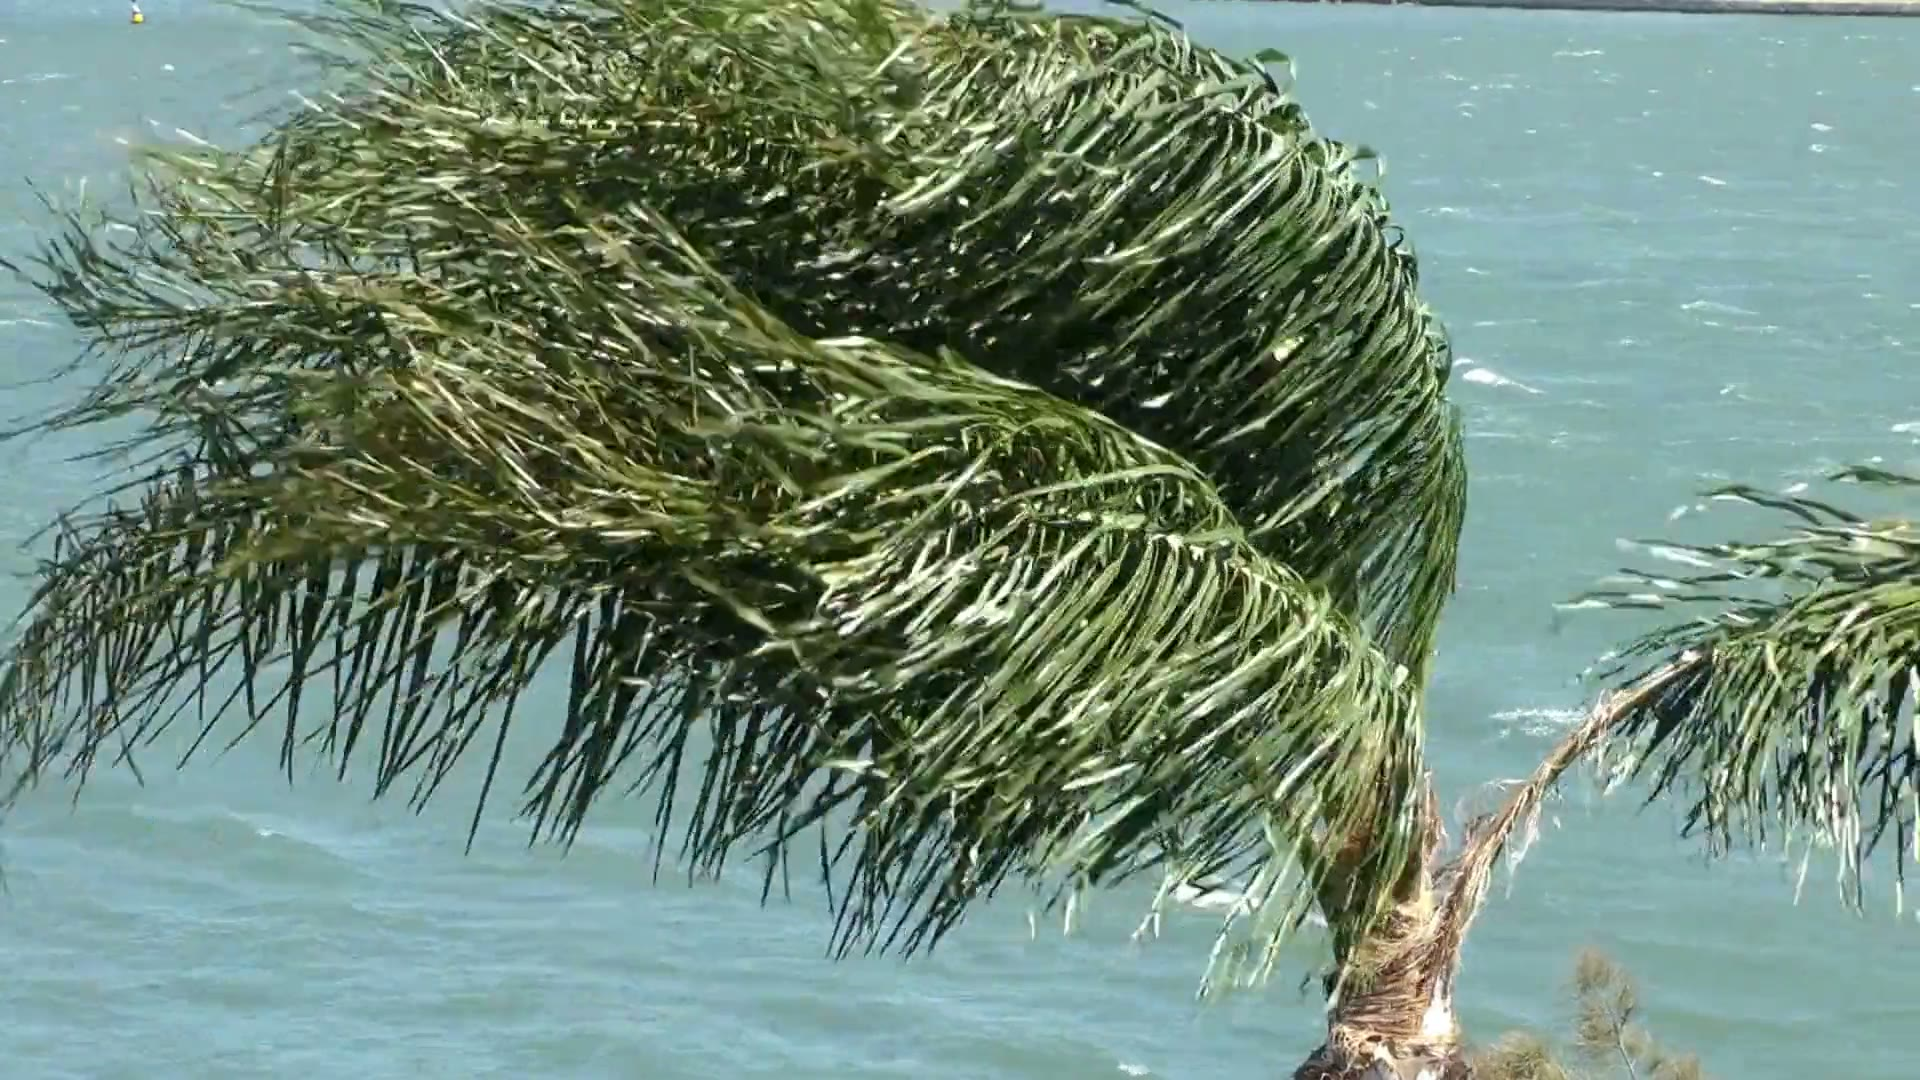
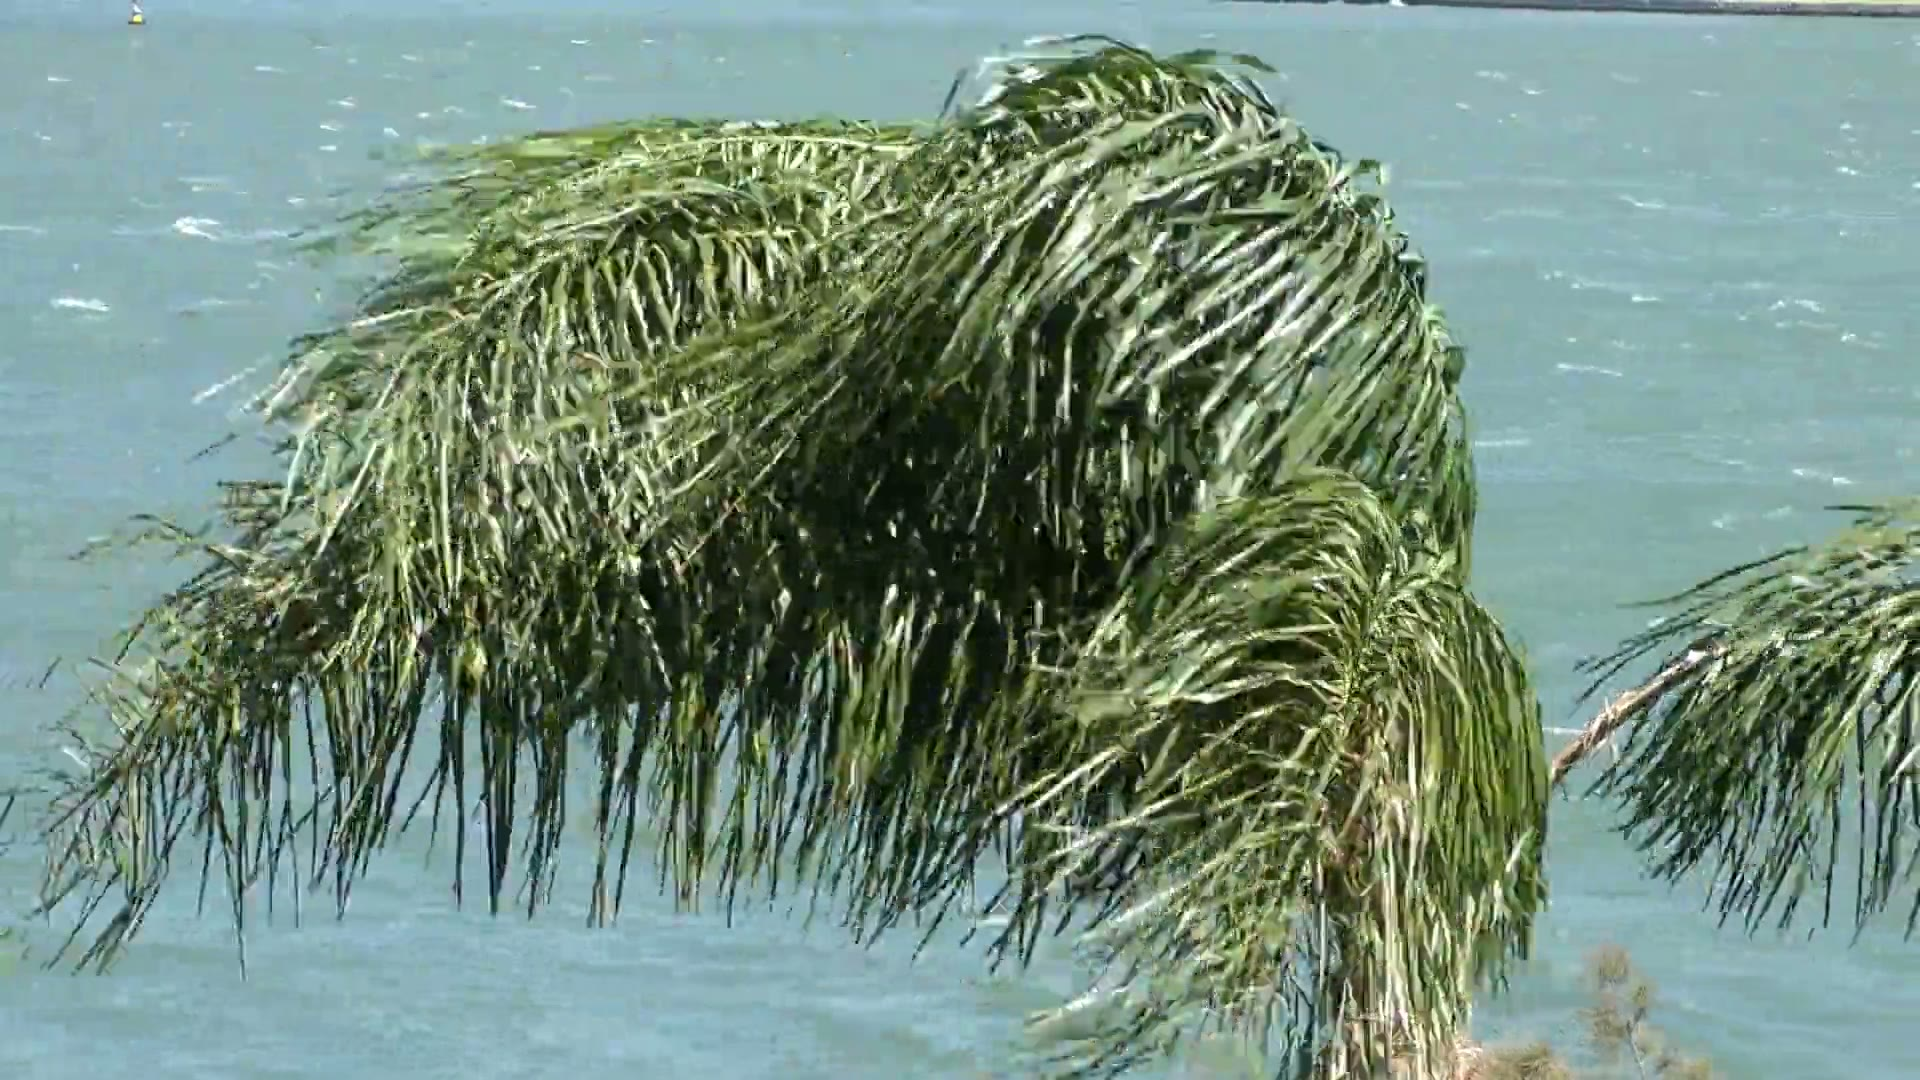
feat(state-pages): R2 hero videos on California, Texas, ASCE-7 pages
Completes the state-page hero video rollout (12/12). Per Greg, reuse hurricane
clips rather than people/office footage: california->hurricane-06,
texas->hurricane-07, asce-7 (generic)->hurricane-08. Same pattern as the rest.

diff --git a/texas-wind-load-calculator/index.html b/texas-wind-load-calculator/index.html
@@ -18,14 +18,14 @@
     <meta property="og:description" content="Texas wind load calculator per ASCE 7-22 — the latest standard. Coastal vs inland split, TWIA 14-county support, Galveston to El Paso wind speeds. Free per-ZIP lookup.">
     <meta property="og:type" content="website">
     <meta property="og:url" content="https://windloadcalc.com/texas-wind-load-calculator/">
-    <meta property="og:image" content="https://windloadcalc.com/images/video-posters/index-homepage.jpg">
+    <meta property="og:image" content="https://windloadcalc.com/images/video-posters/hurricane-07.jpg">
     <meta property="og:site_name" content="WindLoadCalc">
 
     <!-- Twitter Card -->
     <meta name="twitter:card" content="summary_large_image">
     <meta name="twitter:title" content="Texas Wind Load Calculator — ASCE 7-22 + TWIA Coastal">
     <meta name="twitter:description" content="Texas wind load calculator per ASCE 7-22 — the latest standard. Coastal vs inland split, TWIA 14-county support, Galveston to El Paso wind speeds. Free per-ZIP lookup.">
-    <meta name="twitter:image" content="https://windloadcalc.com/images/video-posters/index-homepage.jpg">
+    <meta name="twitter:image" content="https://windloadcalc.com/images/video-posters/hurricane-07.jpg">
 
     <link rel="canonical" href="https://windloadcalc.com/texas-wind-load-calculator/">
 
@@ -157,6 +157,8 @@ nav.scrolled .logo-image{height:64px;filter:none}
 
 /* Hero (aurora-only, no video) */
 .hero-stage{position:relative;overflow:hidden;isolation:isolate}
+.hero-video{position:absolute;inset:0;width:100%;height:100%;object-fit:cover;z-index:0}
+@media(prefers-reduced-motion:reduce){.hero-video{display:none}}
 .hero-veil{position:absolute;inset:0;z-index:1;pointer-events:none;
   background:radial-gradient(ellipse 70% 60% at 50% 26%, rgba(0,24,255,.18), transparent 62%),
     linear-gradient(180deg, rgba(7,10,24,.66) 0%, rgba(7,10,24,.42) 32%, rgba(7,10,24,.72) 74%, var(--bg) 100%)}
@@ -372,7 +374,7 @@ section{position:relative;z-index:1;padding:62px 0}
       },
       "primaryImageOfPage": {
         "@type": "ImageObject",
-        "url": "https://windloadcalc.com/images/video-posters/index-homepage.jpg"
+        "url": "https://windloadcalc.com/images/video-posters/hurricane-07.jpg"
       },
       "inLanguage": "en-US"
     }
@@ -445,6 +447,9 @@ section{position:relative;z-index:1;padding:62px 0}
 </aside>
 
 <div class="hero-stage">
+  <video class="hero-video" autoplay muted loop playsinline preload="auto" poster="/images/video-posters/hurricane-07.jpg">
+    <source src="https://pub-855aeb0543b6449aa495e1f99ac2d507.r2.dev/hurricane-07.mp4" type="video/mp4">
+  </video>
   <div class="hero-veil"></div>
   <header><div class="wrap">
     <div class="eyebrow"><span class="dot"></span>Texas · ASCE 7-22 latest standard · TWIA coastal aware</div>

diff --git a/california-wind-load-calculator/index.html b/california-wind-load-calculator/index.html
@@ -20,14 +20,14 @@
     <meta property="og:description" content="California wind loads computed to the latest ASCE 7-22 standard. Lower wind, still code-required. Five Special Wind Regions flagged at the ZIP.">
     <meta property="og:type" content="website">
     <meta property="og:url" content="https://windloadcalc.com/california-wind-load-calculator/">
-    <meta property="og:image" content="https://windloadcalc.com/images/video-posters/index-homepage.jpg">
+    <meta property="og:image" content="https://windloadcalc.com/images/video-posters/hurricane-06.jpg">
     <meta property="og:site_name" content="WindLoadCalc">
 
     <!-- Twitter Card -->
     <meta name="twitter:card" content="summary_large_image">
     <meta name="twitter:title" content="California Wind Load Calculator — ASCE 7-22 (Latest)">
     <meta name="twitter:description" content="California wind loads computed to the latest ASCE 7-22 standard. Lower wind, still code-required. Special Wind Regions flagged at the ZIP.">
-    <meta name="twitter:image" content="https://windloadcalc.com/images/video-posters/index-homepage.jpg">
+    <meta name="twitter:image" content="https://windloadcalc.com/images/video-posters/hurricane-06.jpg">
 
     <!-- SoftwareApplication Schema -->
     <script type="application/ld+json">
@@ -197,6 +197,8 @@ nav.scrolled .logo-image{height:64px;filter:none}
 
 /* Hero (aurora only — no video) */
 .hero-stage{position:relative;overflow:hidden;isolation:isolate}
+.hero-video{position:absolute;inset:0;width:100%;height:100%;object-fit:cover;z-index:0}
+@media(prefers-reduced-motion:reduce){.hero-video{display:none}}
 .hero-veil{position:absolute;inset:0;z-index:1;pointer-events:none;
   background:radial-gradient(ellipse 70% 60% at 50% 26%, rgba(0,24,255,.18), transparent 62%),
     linear-gradient(180deg, rgba(7,10,24,.30) 0%, rgba(7,10,24,.10) 38%, rgba(7,10,24,.55) 78%, var(--bg) 100%)}
@@ -416,7 +418,7 @@ section{position:relative;z-index:1;padding:56px 0}
       },
       "primaryImageOfPage": {
         "@type": "ImageObject",
-        "url": "https://windloadcalc.com/images/video-posters/index-homepage.jpg"
+        "url": "https://windloadcalc.com/images/video-posters/hurricane-06.jpg"
       },
       "inLanguage": "en-US"
     }
@@ -490,6 +492,9 @@ section{position:relative;z-index:1;padding:56px 0}
 
 <!-- Hero -->
 <div class="hero-stage">
+  <video class="hero-video" autoplay muted loop playsinline preload="auto" poster="/images/video-posters/hurricane-06.jpg">
+    <source src="https://pub-855aeb0543b6449aa495e1f99ac2d507.r2.dev/hurricane-06.mp4" type="video/mp4">
+  </video>
   <div class="hero-veil"></div>
   <header><div class="wrap">
     <div class="eyebrow"><span class="dot"></span>Latest ASCE 7-22 · five Special Wind Regions flagged</div>

diff --git a/asce-7-wind-load-calculator/index.html b/asce-7-wind-load-calculator/index.html
@@ -20,13 +20,13 @@
     <meta property="og:description" content="An ASCE 7 wind load guide comparing editions 7-10, 7-16, and 7-22 — what changed between them, MWFRS vs C&C, and why 7-22 is the current standard.">
     <meta property="og:type" content="website">
     <meta property="og:url" content="https://windloadcalc.com/asce-7-wind-load-calculator/">
-    <meta property="og:image" content="https://windloadcalc.com/images/video-posters/index-homepage.jpg">
+    <meta property="og:image" content="https://windloadcalc.com/images/video-posters/hurricane-08.jpg">
     <meta property="og:site_name" content="WindLoadCalc">
 
     <meta name="twitter:card" content="summary_large_image">
     <meta name="twitter:title" content="ASCE 7 Wind Load Guide &mdash; Editions 7-10, 7-16, 7-22 Compared">
     <meta name="twitter:description" content="An ASCE 7 wind load guide comparing editions 7-10, 7-16, and 7-22 — what changed between them and why 7-22 is the current standard.">
-    <meta name="twitter:image" content="https://windloadcalc.com/images/video-posters/index-homepage.jpg">
+    <meta name="twitter:image" content="https://windloadcalc.com/images/video-posters/hurricane-08.jpg">
 
     <!-- Article / WebPage schema -->
     <script type="application/ld+json">
@@ -141,6 +141,8 @@ nav.scrolled .logo-image{height:64px;filter:none}
 
 /* Hero (aurora-only, no video) */
 .hero-stage{position:relative;overflow:hidden;isolation:isolate}
+.hero-video{position:absolute;inset:0;width:100%;height:100%;object-fit:cover;z-index:0}
+@media(prefers-reduced-motion:reduce){.hero-video{display:none}}
 .hero-veil{position:absolute;inset:0;z-index:1;pointer-events:none;
   background:radial-gradient(ellipse 70% 60% at 50% 26%, rgba(0,24,255,.18), transparent 62%),
     linear-gradient(180deg, rgba(7,10,24,.66) 0%, rgba(7,10,24,.42) 32%, rgba(7,10,24,.72) 74%, var(--bg) 100%)}
@@ -344,7 +346,7 @@ section{position:relative;z-index:1;padding:62px 0}
       },
       "primaryImageOfPage": {
         "@type": "ImageObject",
-        "url": "https://windloadcalc.com/images/video-posters/index-homepage.jpg"
+        "url": "https://windloadcalc.com/images/video-posters/hurricane-08.jpg"
       },
       "inLanguage": "en-US"
     }
@@ -417,6 +419,9 @@ section{position:relative;z-index:1;padding:62px 0}
 </aside>
 
 <div class="hero-stage">
+  <video class="hero-video" autoplay muted loop playsinline preload="auto" poster="/images/video-posters/hurricane-08.jpg">
+    <source src="https://pub-855aeb0543b6449aa495e1f99ac2d507.r2.dev/hurricane-08.mp4" type="video/mp4">
+  </video>
   <div class="hero-veil"></div>
   <header><div class="wrap">
     <div class="eyebrow"><span class="dot"></span>ASCE 7 reference guide · editions 7-10, 7-16, 7-22</div>
